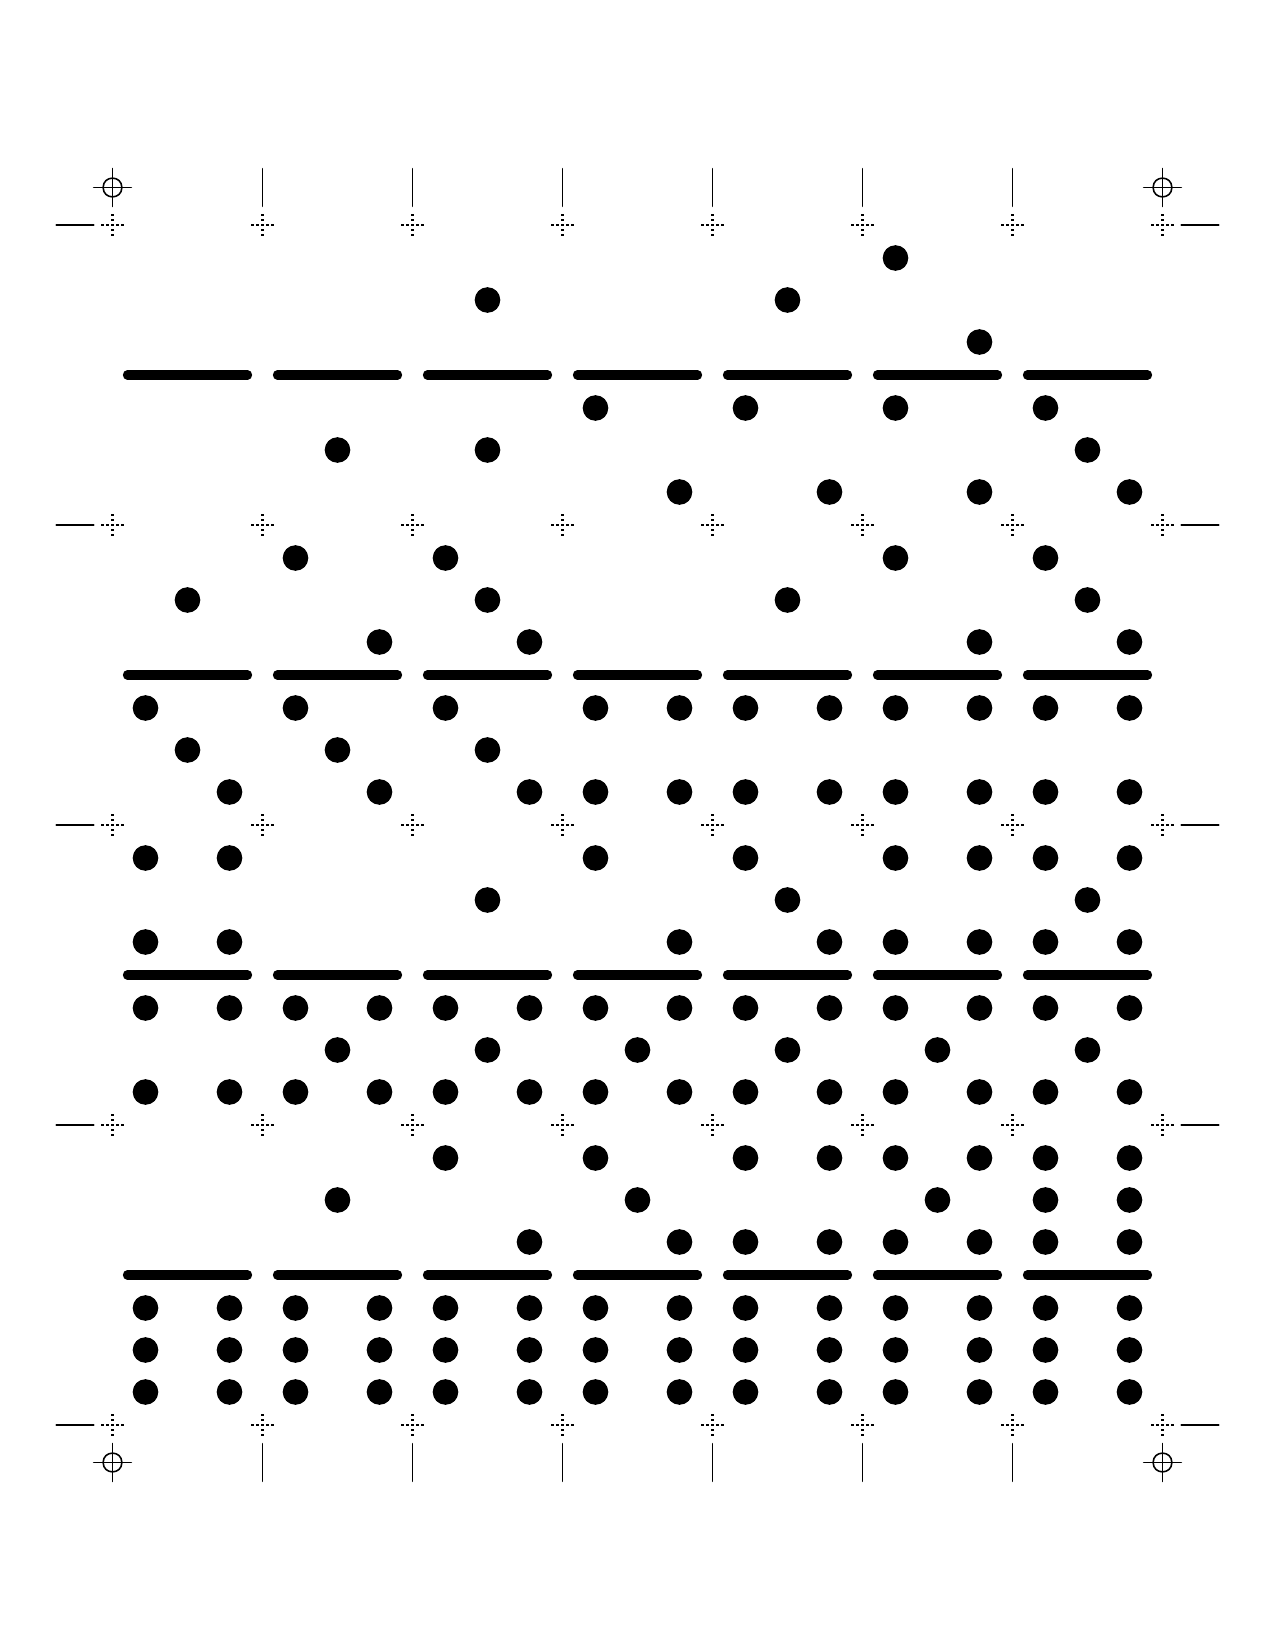
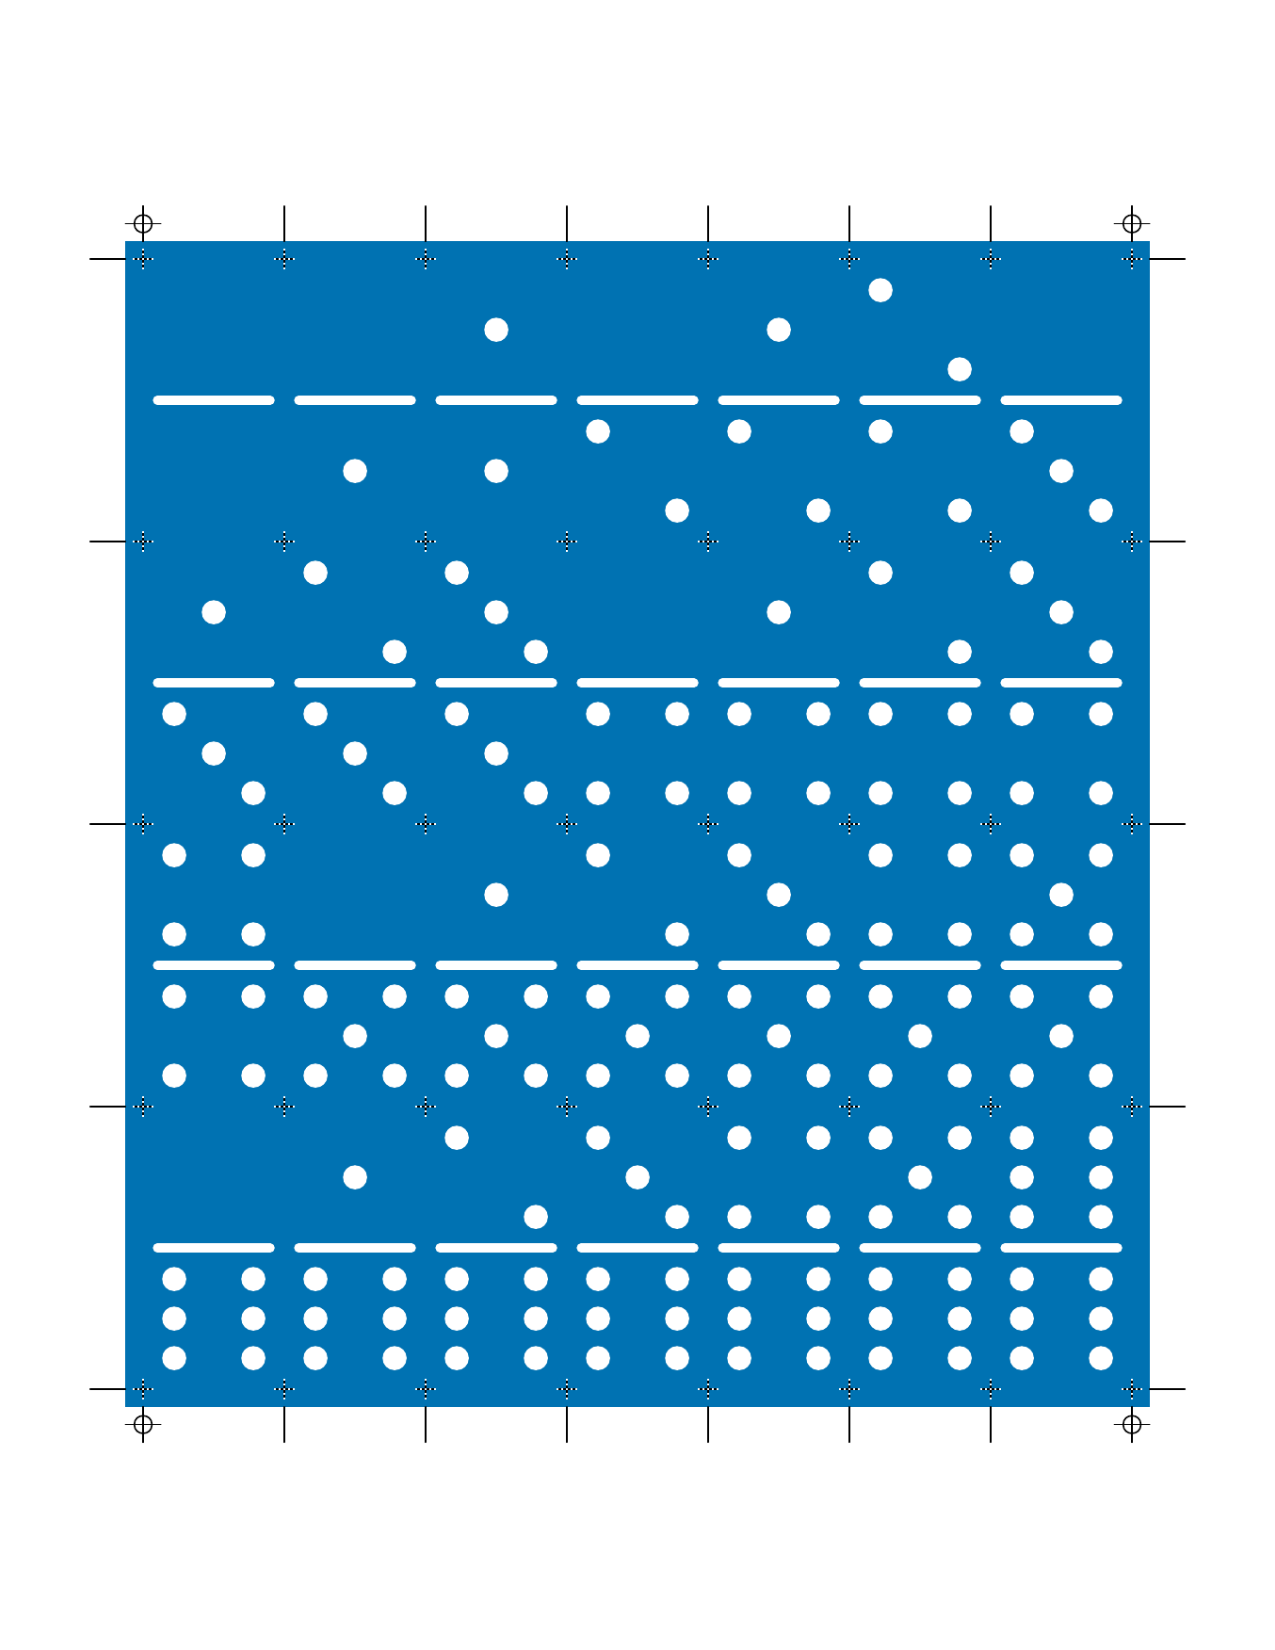
docs: Expand README overview, examples, and related links
Restructure the overview bullets, render the double-twelve example
with white pips on blue A4 tiles, and add a second figure of the last
sheet of the double-eighteen set.  Link to {ppdf}, pagat.com's domino
games index, and Don Kirkby's Donimoes.

diff --git a/README.md b/README.md
@@ -15,17 +15,26 @@
 
 `{pnp.dominoes}` generates print-and-play pdfs of (up to double-18) dominoes for letter and A4 paper.
 
-* `save_domino_pnp_12()` saves a double-twelve set (91 tiles) on three sheets of tiles:
-  the first sheet is a double-six set and the first two sheets contain a double-nine set.
+* `save_domino_pnp_12()` saves a double-twelve set (91 tiles) on three sheets of tiles.
+
+  * The first sheet contains just a double-six set.
+  * The first two sheets contain a double-nine set.
+
 * `save_domino_pnp_18()` saves a double-eighteen set (190 tiles) on six sheets of tiles:
-  the first four sheets are a double-fifteen set.
+
+  * The first four sheets are a double-fifteen set.
+  * The first five sheets are a double-seventeen set.
+
 * Tiles are 1" by 2" with a 1/8" bleed around each group of tiles.
   Crop marks in the margins indicate the cut lines and
   crosshairs (in the pip color) mark the tile corners on the faces.
+
+
 * The first page is a cover page with credits, license, and instructions followed by a deliberately blank page.
   The remaining odd pages are the tile faces and the even pages are the tile backs.
-  Registration marks on both sides help check that double-sided prints line up.
-* The print-and-play pdfs are licensed under [CC-BY-4.0](https://creativecommons.org/licenses/by/4.0/).
+
+* Registration marks on both sides help check that double-sided prints line up.
+* The print-and-play pdfs are licensed under a permissive [CC-BY-4.0](https://creativecommons.org/licenses/by/4.0/) license.
 
 ## <a name="installation">Installation</a>
 
@@ -41,28 +50,37 @@ remotes::install_github("trevorld/pnp.dominoes")
 
 ``` r
 library("pnp.dominoes")
-f12 <- save_domino_pnp_12(tempfile(fileext = ".pdf"))
-f18 <- save_domino_pnp_18(
-  tempfile(fileext = ".pdf"),
-  paper = "a4",
-  background_color = "black",
-  pip_color = "white"
+f12 <- save_domino_pnp_12(
+	tempfile(fileext = ".pdf"),
+	paper = "a4",
+	background_color = palette.colors(names = TRUE)[["blue"]],
+	pip_color = "white"
 )
+f18 <- save_domino_pnp_18(tempfile(fileext = ".pdf"))
 ```
 
-The third page of the pdf is the faces of the first sheet of tiles (a double-six set).
-We can render it with [{pnpmisc}](https://github.com/trevorld/pnpmisc):
+The third page of the pdf is the faces of the first sheet of tiles (a double-six set) with crosshairs, cropmarks, and registration marks to aid in aligning the tile backs with the tile fronts.
 
 
 ``` r
 grid::grid.raster(pnpmisc::pdf_render_raster(f12, page = 3L, dpi = 150))
 ```
 
-![The faces of the first sheet of a double-twelve set of dominoes: a double-six set of 28 tiles laid out in four rows of seven with crop marks in the margins.](man/figures/README-double12-faces-1.png)
+<img src="man/figures/README-double12-faces-1.png" alt="The faces of the first sheet of a double-twelve set of dominoes (white pips on blue tiles): a double-six set of 28 tiles laid out in four rows of seven with crop marks in the margins."  />
+
+
+``` r
+grid::grid.raster(pnpmisc::pdf_render_raster(f18, page = 13L, dpi = 150))
+```
+
+<img src="man/figures/README-double18-faces-1.png" alt="The faces of the last sheet of a double-eighteen set of dominoes (black pips on white tiles): 19 domino tiles laid out in a grid with crop marks in the margins."  />
 
 
 
 ## <a name="related">Related links</a>
 
 * [{piecepackr}](https://github.com/piecepackr/piecepackr) draws the domino tiles.
+* [{ppdf}](https://github.com/piecepackr/ppdf) provides the domino tile data (and setups for several domino games).
 * [{pnpmisc}](https://github.com/trevorld/pnpmisc) has functions to edit print-and-play pdfs.
+* [Domino Games](https://www.pagat.com/domino/) on pagat.com has rules for many games playable with dominoes.
+* [Donimoes](https://donkirkby.github.io/donimoes/) is Don Kirkby's book of new puzzles and games with dominoes.
